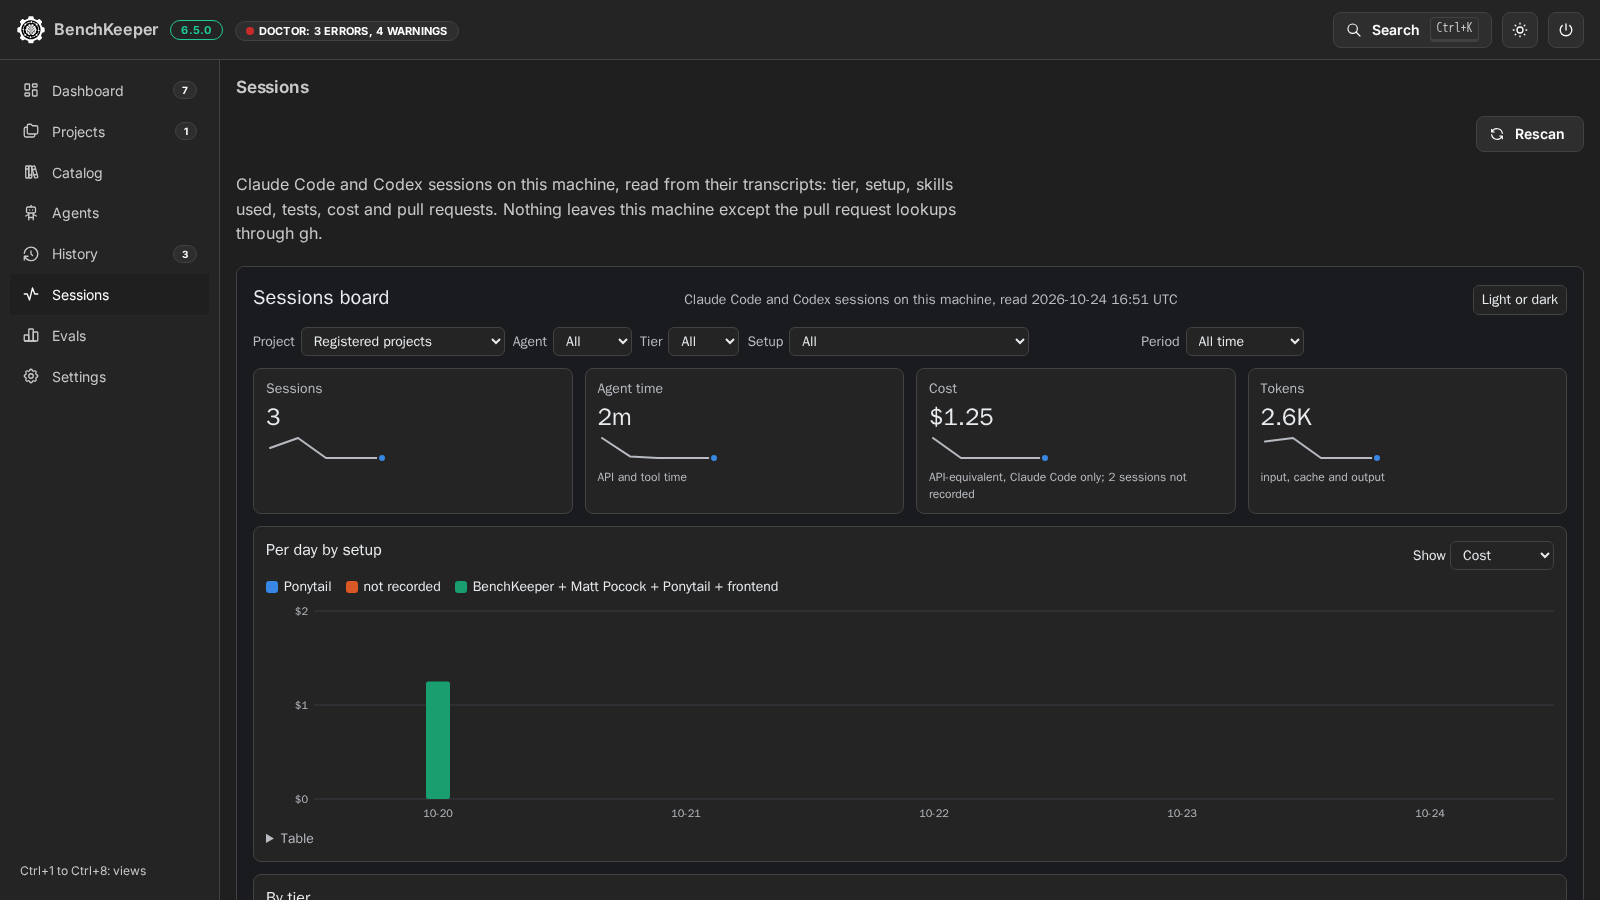
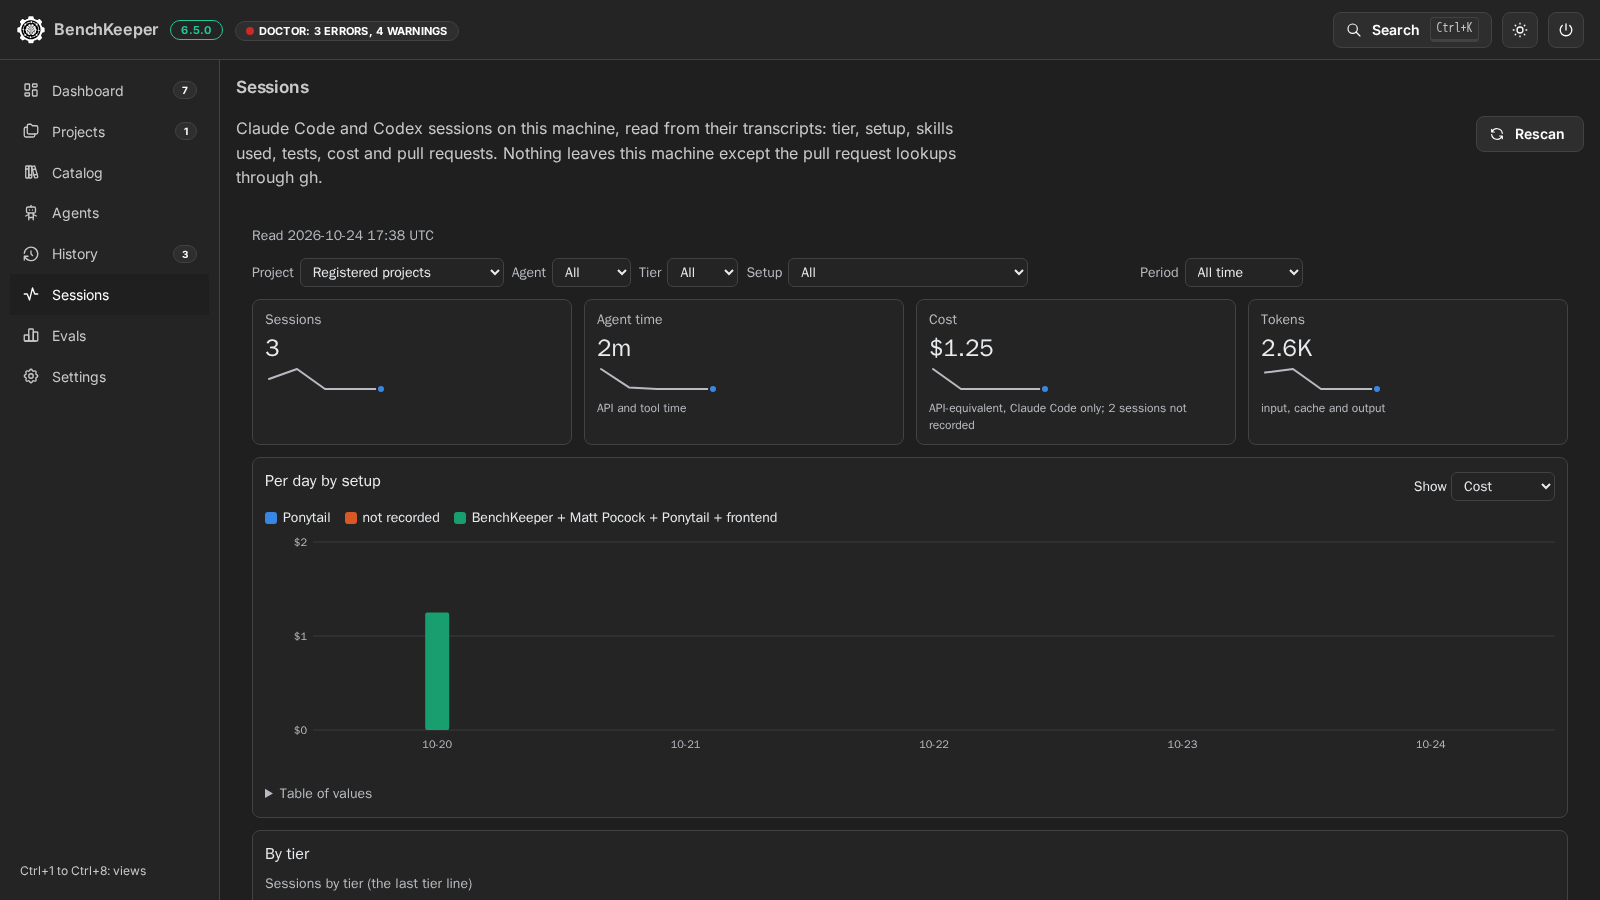
fix(app): sessions board chart readout, stable colors, frame height and in-place theme
Refs #157

Assisted-by: generative AI

diff --git a/app/ui/views.jsx b/app/ui/views.jsx
@@ -649,20 +649,32 @@ export function Settings({ overview, refresh, keys }) {
 }
 
 // The sessions board in a frame: a scan job fills the session cache first (the first one reads every transcript), then
-// the board renders from the server's last scan; a reload within a minute shows it without scanning. The frame follows the app's theme.
+// the board renders from the server's last scan; a reload within a minute shows it without scanning. The frame follows the
+// app's theme without reloading, and takes the height of the board, so the page scrolls and the frame does not.
 export function Sessions() {
   const scheme = useComputedColorScheme('light');
   const [job, setJob] = useState(null);
   const [shown, setShown] = useState(0);
   const [error, setError] = useState(null);
   const [src, setSrc] = useState(null);
+  const [height, setHeight] = useState(480);
+  const frame = useRef(null);
   const theme = useRef(scheme);
-  useEffect(() => { theme.current = scheme; }, [scheme]);
-  // Each frame load takes a one-time ticket (the frame cannot send the API key), also after a theme change.
+  useEffect(() => {
+    theme.current = scheme;
+    frame.current?.contentWindow?.postMessage({ bkTheme: scheme }, window.location.origin);
+  }, [scheme]);
+  useEffect(() => {
+    const on = (e) => {
+      if (e.source === frame.current?.contentWindow && e.origin === window.location.origin && Number.isFinite(e.data?.bkBoardHeight)) setHeight(Math.max(480, e.data.bkBoardHeight));
+    };
+    window.addEventListener('message', on);
+    return () => window.removeEventListener('message', on);
+  }, []);
+  // Each frame load takes a one-time ticket (the frame cannot send the API key).
   const show = async () => {
     try { const { ticket } = await api('/api/board-ticket', {}); setSrc(`/board?theme=${theme.current}&ticket=${ticket}`); setShown((n) => n + 1); } catch (e) { setError(e.message); }
   };
-  useEffect(() => { if (src) show(); }, [scheme]);
   const scan = async (force) => {
     setError(null);
     try { const r = await api('/api/sessions-scan', force ? { force: true } : {}); if (r.fresh) show(); else setJob(r.job); } catch (e) { setError(e.message); }
@@ -672,13 +684,13 @@ export function Sessions() {
   const p = state?.progress;
   return (
     <Stack gap="lg">
-      <Group justify="flex-end">
+      <Group justify="space-between" align="flex-start">
+        <Text maw={720}>Claude Code and Codex sessions on this machine, read from their transcripts: tier, setup, skills used, tests, cost and pull requests. Nothing leaves this machine except the pull request lookups through gh.</Text>
         <Button leftSection={icon(IconRefresh)} variant="default" loading={!!job} onClick={() => scan(true)}>Rescan</Button>
       </Group>
-      <Text maw={720}>Claude Code and Codex sessions on this machine, read from their transcripts: tier, setup, skills used, tests, cost and pull requests. Nothing leaves this machine except the pull request lookups through gh.</Text>
       {error && <Note color="red">{error}</Note>}
       {job && <Stack gap={4}><Text size="sm">Reading transcripts{p ? `: ${p.done} of ${p.total} files` : ''}</Text><Progress value={p?.total ? (p.done / p.total) * 100 : 0} aria-label="Transcripts read" /></Stack>}
-      {src && <iframe key={shown} src={src} title="Sessions board" style={{ width: '100%', height: 'calc(100vh - 260px)', minHeight: 480, border: '1px solid var(--mantine-color-default-border)', borderRadius: 8 }} />}
+      {src && <iframe ref={frame} key={shown} src={src} title="Sessions board" style={{ display: 'block', width: '100%', height, border: 0 }} />}
       <Cli>benchkeeper board</Cli>
     </Stack>
   );

diff --git a/app/README.md b/app/README.md
@@ -43,7 +43,7 @@ Runtime dependencies, pinned: [jsonc-parser](https://github.com/microsoft/node-j
 | Projects | registered projects with setup version, skills per chosen agent (in the project, and in all with its global and plugin skills), pending changes, tree state and branch; per project its plan, skill switches and doctor findings; add, scan a parent folder, Update all with progress per project (it asks first, naming the count, when it opens pull requests). A project without a state file is set up step by step (agents with where the setup lives: on this machine, the default, or in the repository as a branch with one commit and a pull request; environment with the dev container as default, packs and skills with suggestions from its files, tier, review), one project after the other; Prefill all with an agent, on the first project of a batch, runs one suggestion session per project after one consent, one at a time with a state per project (waiting, running, ready, failed, cancelled); each project's steps then start from its suggestion, still reviewed and applied one by one (a reload loses suggestions not yet used). Change setup reopens these steps from the state file; Open folder shows the project in the file manager. Suggest with an agent asks first, then runs one read-only session (Claude Code `-p --restricted --strict-mcp-config` with Read, Grep and Glob; Codex `exec` with a permission profile that reads only the project, the system's minimal paths and Codex itself, writes nothing, and runs without web search and MCP servers) in the project on your subscription; only library packs, skills and environments from its answer are taken |
 | Catalog | library skills with filters, skill detail with eval results, pack builder (warns about overlapping descriptions), packs with export, import (asks before it replaces an own pack, the old file goes to `backup/packs/`) and removal |
 | Agents | detected agents and the global plan for the chosen ones. A skills CLI install in a plan (here, in a project's plan and in setup review) runs first in a scratch folder with its own `HOME` and `CODEX_HOME`, `CLAUDE_CONFIG_DIR` and `XDG_*` unset, so the plan shows the files it would write (mapped back to the folders those variables point to); links are copied as what they point to, npm keeps your cache and `.npmrc`, git your global config. Three run at a time; a result is kept 10 minutes or until the app changes files, and an apply stops a rehearsal still running. Apply shows each change as it runs, with the command output, then the run report in place of the plan. Cancel skips the changes not started yet |
-| Sessions | the sessions board (see `board`), scanned when the view opens, with progress and Rescan; each scan also rewrites `board.html`, which the tier band's board button opens |
+| Sessions | the sessions board (see `board`), scanned when the view opens, with progress and Rescan; each scan also rewrites `board.html`, which the tier band's board button opens. The per-day chart shows all series of a day on hover, tap or with the arrow keys |
 | History | runs by day; the run report: counts by status and changed lines, each change with its diff (line numbers, unified or split, created and deleted files unified), command and output, or session files, undo of a step or the whole run |
 | Evals | per agent and model (the newest by default): the latest miss and false-trigger rate of each target, worst first, and each target's rates over time; Run evals plans the targets and the number of agent sessions, then starts them with progress per session; Cancel stops the running session, finished targets keep their results |
 | Settings | profile export and import, keyboard shortcuts (the `/` key can be switched off), config files |
